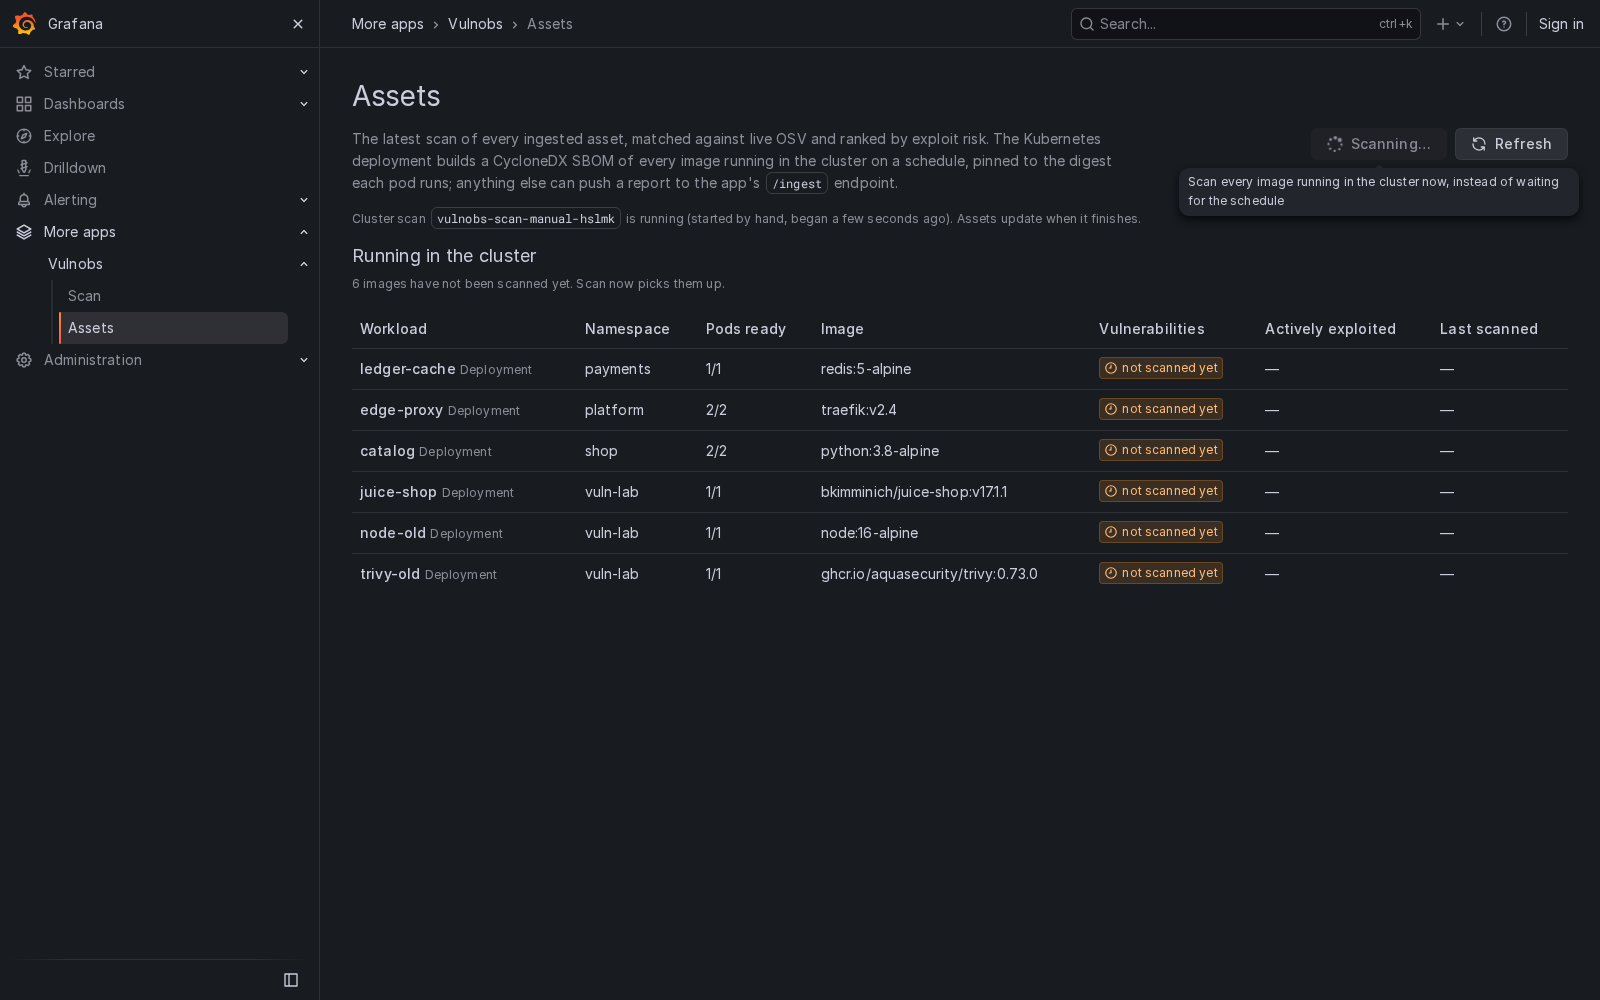
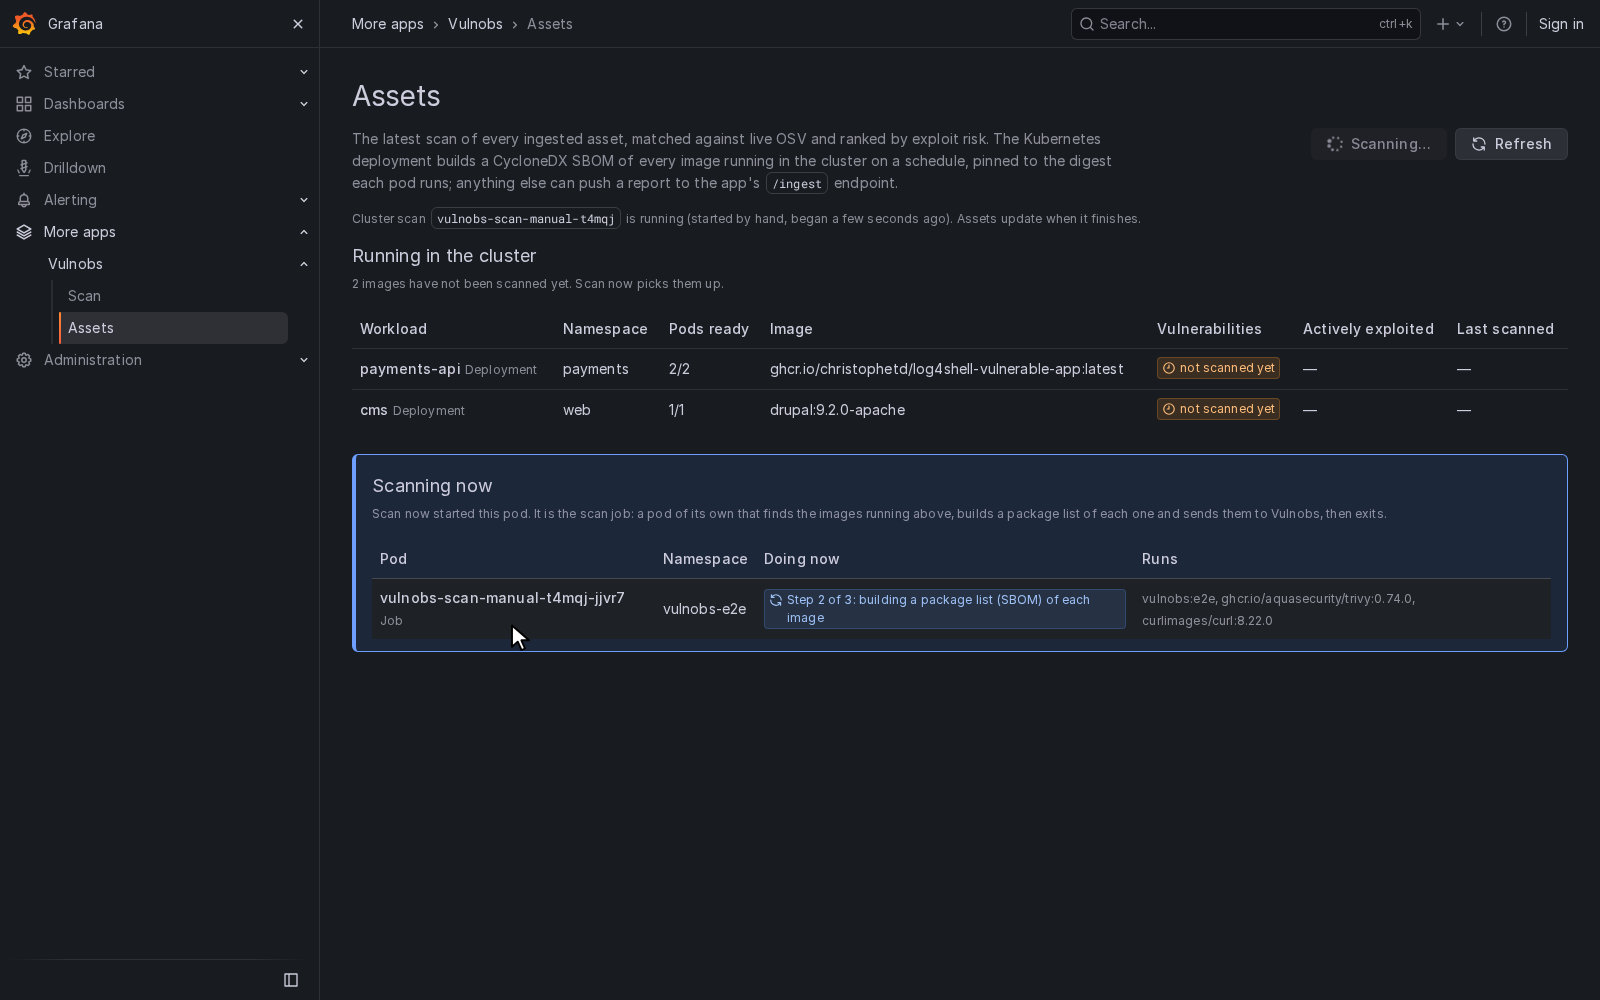
feat: show the scan job's pod on the Assets page while it runs (#62)
* feat: show the scan job's pod on the Assets page while it runs

While a cluster scan runs, the workloads view lists the scan job's own
pod in a "Scanning now" box: its name, namespace, the step it is on and
the images it runs. Clicking Scan now therefore visibly starts something
in the cluster instead of only changing the button.

The pod and its step come from the pod list the view already reads, so
no new permission is needed. Remote mode (Prometheus) has no step
information and does not show the box.

* docs: screenshot of a scan in progress with the scan job's pod

---------

Changed region(s): [[0.2188, 0.279, 1.0, 0.651], [0.75, 0.155, 0.9688, 0.217], [0.2188, 0.341, 0.2812, 0.372]]

diff --git a/rupesh-vulnobs-app/src/pages/Assets.tsx b/rupesh-vulnobs-app/src/pages/Assets.tsx
@@ -82,11 +82,35 @@ export interface Workload {
   images: WorkloadImage[];
 }
 
+// A pod of the scan job that is running now.
+export interface ScanPod {
+  namespace: string;
+  job: string;
+  pod: string;
+  // The container that is working: the job's steps run one after another.
+  step?: string;
+  images: string[];
+}
+
+// What the scan job's containers do, for the names the Tanka environment gives them.
+const SCAN_STEPS: Record<string, string> = {
+  discover: 'Step 1 of 3: finding the images that are running',
+  trivy: 'Step 2 of 3: building a package list (SBOM) of each image',
+  push: 'Step 3 of 3: sending the package lists to Vulnobs',
+  done: 'Finishing',
+};
+
+function scanStep(step?: string): string {
+  return !step ? 'Starting' : (SCAN_STEPS[step] ?? `Running ${step}`);
+}
+
 // Answer of GET /workloads: what runs in the cluster right now, scanned or not.
 interface WorkloadsResponse {
   available: boolean;
   reason?: string;
   workloads: Workload[];
+  // The scan job's own pods that are running now (Kubernetes API only).
+  scanPods?: ScanPod[];
   // 'prometheus': built from kube-state-metrics instead of the Kubernetes API.
   source?: string;
   // Set on a GET in that mode: the queries to run against the data source,
@@ -308,6 +332,9 @@ function AssetList({ onSelect }: { onSelect: (asset: string) => void }) {
     return () => clearInterval(timer);
   }, [pollWorkloads, fetchWorkloads]);
 
+  const followScanPods = showWorkloads && workloads?.source !== 'prometheus';
+  const scanPods = workloads?.scanPods ?? [];
+
   const { workloadRows, otherAssets } = useMemo(() => {
     const assets = data?.assets ?? [];
     const byName = new Map(assets.map((a) => [a.asset, a]));
@@ -361,9 +388,16 @@ function AssetList({ onSelect }: { onSelect: (asset: string) => void }) {
     if (!running) {
       return;
     }
-    const timer = setInterval(fetchScan, SCAN_POLL_MS);
+    // The scan job's pod and its current step come with the workloads, so
+    // follow those too while it runs (not in remote mode: Prometheus has no steps).
+    const timer = setInterval(() => {
+      fetchScan();
+      if (followScanPods) {
+        fetchWorkloads();
+      }
+    }, SCAN_POLL_MS);
     return () => clearInterval(timer);
-  }, [running, fetchScan, fetchAssets, fetchWorkloads]);
+  }, [running, followScanPods, fetchScan, fetchAssets, fetchWorkloads]);
 
   const startScan = () => {
     setStarting(true);
@@ -484,6 +518,29 @@ function AssetList({ onSelect }: { onSelect: (asset: string) => void }) {
     },
   ];
 
+  const scanPodColumns: Array<Column<ScanPod>> = [
+    {
+      id: 'pod',
+      header: 'Pod',
+      cell: ({ row: { original: p } }) => (
+        <span>
+          <span className={s.workloadName}>{p.pod}</span> <span className={s.muted}>Job</span>
+        </span>
+      ),
+    },
+    { id: 'namespace', header: 'Namespace', cell: ({ row: { original: p } }) => <span>{p.namespace}</span> },
+    {
+      id: 'step',
+      header: 'Doing now',
+      cell: ({ row: { original: p } }) => <Badge text={scanStep(p.step)} color="blue" icon="sync" />,
+    },
+    {
+      id: 'images',
+      header: 'Runs',
+      cell: ({ row: { original: p } }) => <span className={s.muted}>{p.images.join(', ')}</span>,
+    },
+  ];
+
   const unscanned = workloadRows.filter((r) => !r.asset).length;
 
   return (
@@ -580,6 +637,16 @@ function AssetList({ onSelect }: { onSelect: (asset: string) => void }) {
                 </>
               ) : (
                 <p className={s.scanLine}>Nothing is running outside the excluded namespaces.</p>
+              )}
+              {scanPods.length > 0 && (
+                <div className={s.scanPods} data-testid={testIds.assets.scanPods}>
+                  <h4 className={s.sectionTitle}>Scanning now</h4>
+                  <p className={s.scanLine}>
+                    Scan now started this pod. It is the scan job: a pod of its own that finds the images running
+                    above, builds a package list of each one and sends them to Vulnobs, then exits.
+                  </p>
+                  <InteractiveTable columns={scanPodColumns} data={scanPods} getRowId={(p) => p.pod} />
+                </div>
               )}
               {otherAssets.length > 0 && (
                 <>
@@ -713,6 +780,14 @@ const getStyles = (theme: GrafanaTheme2) => ({
     color: ${theme.colors.text.secondary};
     max-width: 780px;
     margin: 0;
+  `,
+  scanPods: css`
+    margin-top: ${theme.spacing(3)};
+    padding: ${theme.spacing(0.5, 2, 1.5)};
+    border: 1px solid ${theme.colors.info.border};
+    border-left-width: 4px;
+    border-radius: ${theme.shape.radius.default};
+    background: ${theme.colors.info.transparent};
   `,
   sectionTitle: css`
     margin: ${theme.spacing(2, 0, 1)};

diff --git a/rupesh-vulnobs-app/src/pages/Assets.test.tsx b/rupesh-vulnobs-app/src/pages/Assets.test.tsx
@@ -205,6 +205,26 @@ describe('Assets page', () => {
         </MemoryRouter>
       );
 
+    test('shows the scan job\'s pod while it runs', async () => {
+      mockBackend({
+        ...workloads,
+        scanPods: [
+          {
+            namespace: 'vulnobs',
+            job: 'vulnobs-scan-manual-abc12',
+            pod: 'vulnobs-scan-manual-abc12-xk2p9',
+            step: 'trivy',
+            images: ['vulnobs:1', 'trivy:0.74'],
+          },
+        ],
+      });
+      renderPage();
+
+      expect(await screen.findByText('Scanning now')).toBeInTheDocument();
+      expect(screen.getByText('vulnobs-scan-manual-abc12-xk2p9')).toBeInTheDocument();
+      expect(screen.getByText(/Step 2 of 3: building a package list/)).toBeInTheDocument();
+    });
+
     test('shows what runs in the cluster, scanned or not', async () => {
       mockBackend(workloads);
       renderPage();

diff --git a/rupesh-vulnobs-app/src/components/testIds.ts b/rupesh-vulnobs-app/src/components/testIds.ts
@@ -22,5 +22,6 @@ export const testIds = {
     scanStatus: 'data-testid assets-scan-status',
     workloads: 'data-testid assets-workloads',
     workloadsUnavailable: 'data-testid assets-workloads-unavailable',
+    scanPods: 'data-testid assets-scan-pods',
   },
 };

diff --git a/rupesh-vulnobs-app/pkg/plugin/workloads.go b/rupesh-vulnobs-app/pkg/plugin/workloads.go
@@ -42,11 +42,30 @@ type Workload struct {
 	Images    []WorkloadImage `json:"images"`
 }
 
+// ScanPod is a pod of the cluster scan job that is running now. The page shows
+// it apart from the workloads, so "Scan now" visibly starts something: the scan
+// is a pod of its own, not something Grafana does.
+type ScanPod struct {
+	Namespace string `json:"namespace"`
+	Job       string `json:"job"`
+	Pod       string `json:"pod"`
+	// Step is the container that is working now. The scan job's containers
+	// run one after another (find the images, build the SBOMs, push them).
+	// Empty while the pod is still starting; scanStepDone once every
+	// container has ended and the pod is about to go.
+	Step   string   `json:"step,omitempty"`
+	Images []string `json:"images"`
+}
+
 // WorkloadsResponse is the answer to GET /workloads.
 type WorkloadsResponse struct {
 	Available bool       `json:"available"`
 	Reason    string     `json:"reason,omitempty"` // why not, when unavailable
 	Workloads []Workload `json:"workloads"`
+	// ScanPods are the scan job's own pods that are running now. Only the
+	// Kubernetes API tells; in remote mode the page says the scan is running
+	// without them.
+	ScanPods []ScanPod `json:"scanPods,omitempty"`
 	// Source is "prometheus" when the list is built from kube-state-metrics
 	// instead of the Kubernetes API (clusterMode "remote").
 	Source string `json:"source,omitempty"`
@@ -87,6 +106,44 @@ type kubeContainer struct {
 type kubeContainerStatus struct {
 	Name    string `json:"name"`
 	ImageID string `json:"imageID"`
+	State   struct {
+		Terminated *struct{} `json:"terminated"`
+	} `json:"state"`
+}
+
+// scanStepDone is ScanPod.Step between the last container ending and the pod
+// being reported as finished.
+const scanStepDone = "done"
+
+// scanPod tells whether a pod belongs to a run of the scan CronJob (a Job
+// named "<cronjob>-..." in the CronJob's namespace) and, if so, which of its
+// steps is working.
+func (c *clusterScanner) scanPod(pod kubePod) (ScanPod, bool) {
+	if pod.Metadata.Namespace != c.namespace {
+		return ScanPod{}, false
+	}
+	kind, job := pod.owner()
+	if kind != "Job" || !strings.HasPrefix(job, c.cronJob+"-") {
+		return ScanPod{}, false
+	}
+	done, started := map[string]bool{}, false
+	for _, st := range append(pod.Status.InitContainerStatuses, pod.Status.ContainerStatuses...) {
+		started = true
+		done[st.Name] = st.State.Terminated != nil
+	}
+	sp := ScanPod{Namespace: pod.Metadata.Namespace, Job: job, Pod: pod.Metadata.Name, Images: []string{}}
+	for _, ct := range append(pod.Spec.InitContainers, pod.Spec.Containers...) {
+		if ct.Image != "" {
+			sp.Images = append(sp.Images, ct.Image)
+		}
+		if started && sp.Step == "" && !done[ct.Name] {
+			sp.Step = ct.Name
+		}
+	}
+	if started && sp.Step == "" {
+		sp.Step = scanStepDone
+	}
+	return sp, true
 }
 
 // owner names the workload a pod belongs to. A Deployment's pods are owned by
@@ -137,7 +194,9 @@ func imageDigest(imageID string) string {
 
 // workloads lists what runs in the cluster outside the excluded namespaces,
 // grouped by owner. Finished pods are left out, as the scan job leaves them.
-func (c *clusterScanner) workloads(ctx context.Context, excludeNamespaces []string) ([]Workload, error) {
+// The scan job's own running pods are returned separately, whatever namespace
+// they are in.
+func (c *clusterScanner) workloads(ctx context.Context, excludeNamespaces []string) ([]Workload, []ScanPod, error) {
 	excluded := map[string]bool{}
 	for _, ns := range excludeNamespaces {
 		if ns = strings.TrimSpace(ns); ns != "" {
@@ -146,6 +205,7 @@ func (c *clusterScanner) workloads(ctx context.Context, excludeNamespaces []stri
 	}
 
 	set := newWorkloadSet()
+	var scanPods []ScanPod
 	next := ""
 	for {
 		path := "/api/v1/pods?limit=500"
@@ -154,11 +214,18 @@ func (c *clusterScanner) workloads(ctx context.Context, excludeNamespaces []stri
 		}
 		var page kubePodList
 		if err := c.do(ctx, http.MethodGet, path, nil, &page); err != nil {
-			return nil, err
+			return nil, nil, err
 		}
 		for _, pod := range page.Items {
 			ns := pod.Metadata.Namespace
-			if excluded[ns] || pod.Status.Phase == "Succeeded" || pod.Status.Phase == "Failed" {
+			if pod.Status.Phase == "Succeeded" || pod.Status.Phase == "Failed" {
+				continue
+			}
+			if sp, ok := c.scanPod(pod); ok {
+				scanPods = append(scanPods, sp)
+				continue
+			}
+			if excluded[ns] {
 				continue
 			}
 			digests := map[string]string{}
@@ -179,7 +246,8 @@ func (c *clusterScanner) workloads(ctx context.Context, excludeNamespaces []stri
 			break
 		}
 	}
-	return set.list(), nil
+	sort.Slice(scanPods, func(i, j int) bool { return scanPods[i].Pod < scanPods[j].Pod })
+	return set.list(), scanPods, nil
 }
 
 // workloadSet groups pods by owner. Both sources of the workloads list (the
@@ -324,7 +392,7 @@ func (a *App) handleWorkloads(w http.ResponseWriter, req *http.Request) {
 			exclude = defaultExcludedNamespaces
 		}
 	}
-	workloads, err := a.cluster.workloads(req.Context(), exclude)
+	workloads, scanPods, err := a.cluster.workloads(req.Context(), exclude)
 	if err != nil {
 		// Not being allowed to list pods is the normal state when the
 		// deployment didn't opt in, so it is an answer, not a failure.
@@ -332,5 +400,5 @@ func (a *App) handleWorkloads(w http.ResponseWriter, req *http.Request) {
 		writeJSON(w, WorkloadsResponse{Available: false, Reason: reason, Workloads: []Workload{}})
 		return
 	}
-	writeJSON(w, WorkloadsResponse{Available: true, Workloads: workloads})
+	writeJSON(w, WorkloadsResponse{Available: true, Workloads: workloads, ScanPods: scanPods})
 }

diff --git a/rupesh-vulnobs-app/pkg/plugin/workloads_test.go b/rupesh-vulnobs-app/pkg/plugin/workloads_test.go
@@ -42,6 +42,13 @@ var podPages = map[string]string{
 	     "containerStatuses": [{"name": "db", "imageID": "sha256:` + digestB + `"}]}},
 	  {"metadata": {"name": "report-29-xyz", "namespace": "batch", ` + ownedBy("Job", "report-29") + `},
 	   "spec": {"containers": [{"name": "report", "image": "busybox:1.36"}]}, "status": {"phase": "Succeeded"}},
+	  {"metadata": {"name": "vulnobs-scan-manual-abc12-xk2p9", "namespace": "vulnobs", ` + ownedBy("Job", "vulnobs-scan-manual-abc12") + `},
+	   "spec": {"initContainers": [{"name": "discover", "image": "vulnobs:1"}, {"name": "trivy", "image": "trivy:0.74"}], "containers": [{"name": "push", "image": "curl:8"}]},
+	   "status": {"phase": "Pending",
+	     "initContainerStatuses": [{"name": "discover", "state": {"terminated": {"exitCode": 0}}}, {"name": "trivy", "state": {"running": {}}}],
+	     "containerStatuses": [{"name": "push", "state": {"waiting": {}}}]}},
+	  {"metadata": {"name": "vulnobs-scan-29-done", "namespace": "vulnobs", ` + ownedBy("Job", "vulnobs-scan-29") + `},
+	   "spec": {"containers": [{"name": "push", "image": "curl:8"}]}, "status": {"phase": "Succeeded"}},
 	  {"metadata": {"name": "debug", "namespace": "batch"},
 	   "spec": {"containers": [{"name": "sh", "image": "busybox:1.36"}]},
 	   "status": {"phase": "Running", "conditions": [{"type": "Ready", "status": "True"}]}}
@@ -63,9 +70,17 @@ func servePods(w http.ResponseWriter, r *http.Request) bool {
 
 func TestWorkloads(t *testing.T) {
 	kube := &fakeKube{pods: servePods}
-	got, err := newTestScanner(t, kube).workloads(context.Background(), []string{"kube-system", " "})
+	got, scanPods, err := newTestScanner(t, kube).workloads(context.Background(), []string{"kube-system", " ", "vulnobs"})
 	if err != nil {
 		t.Fatal(err)
+	}
+	// The scan job's running pod is reported on its own, although its
+	// namespace is excluded, with the step that is working; its finished
+	// pod is not.
+	wantScan := []ScanPod{{Namespace: "vulnobs", Job: "vulnobs-scan-manual-abc12", Pod: "vulnobs-scan-manual-abc12-xk2p9",
+		Step: "trivy", Images: []string{"vulnobs:1", "trivy:0.74", "curl:8"}}}
+	if !reflect.DeepEqual(scanPods, wantScan) {
+		t.Errorf("scan pods:\n got %+v\nwant %+v", scanPods, wantScan)
 	}
 	want := []Workload{
 		// No owner: the pod is its own workload.
@@ -82,6 +97,39 @@ func TestWorkloads(t *testing.T) {
 	}
 	if !reflect.DeepEqual(got, want) {
 		t.Errorf("workloads:\n got %+v\nwant %+v", got, want)
+	}
+}
+
+func TestScanPodStep(t *testing.T) {
+	c := &clusterScanner{namespace: "vulnobs", cronJob: "vulnobs-scan"}
+	pod := func(status string) kubePod {
+		var p kubePod
+		raw := `{"metadata": {"name": "vulnobs-scan-1-x", "namespace": "vulnobs", ` + ownedBy("Job", "vulnobs-scan-1") + `},
+		  "spec": {"initContainers": [{"name": "discover", "image": "a"}], "containers": [{"name": "push", "image": "b"}]},
+		  "status": {"phase": "Running"` + status + `}}`
+		if err := json.Unmarshal([]byte(raw), &p); err != nil {
+			t.Fatal(err)
+		}
+		return p
+	}
+	for name, tc := range map[string]struct{ status, want string }{
+		"no container has started": {``, ""},
+		"first step":               {`, "initContainerStatuses": [{"name": "discover", "state": {"running": {}}}]`, "discover"},
+		"last step": {`, "initContainerStatuses": [{"name": "discover", "state": {"terminated": {}}}],
+			"containerStatuses": [{"name": "push", "state": {"running": {}}}]`, "push"},
+		"everything ended": {`, "initContainerStatuses": [{"name": "discover", "state": {"terminated": {}}}],
+			"containerStatuses": [{"name": "push", "state": {"terminated": {}}}]`, scanStepDone},
+	} {
+		got, ok := c.scanPod(pod(tc.status))
+		if !ok || got.Step != tc.want {
+			t.Errorf("%s: step %q (scan pod %v), want %q", name, got.Step, ok, tc.want)
+		}
+	}
+	// Another namespace's job of the same name is not the scan job.
+	other := pod(``)
+	other.Metadata.Namespace = "shop"
+	if _, ok := c.scanPod(other); ok {
+		t.Error("a pod in another namespace was taken for the scan job")
 	}
 }
 

diff --git a/rupesh-vulnobs-app/CHANGELOG.md b/rupesh-vulnobs-app/CHANGELOG.md
@@ -4,6 +4,11 @@
 
 ### Features
 
+- **The scan job's pod on the Assets page** — while a cluster scan runs, the workloads view
+  shows the scan job's own pod in a *Scanning now* box: its name, its namespace, the step
+  it is on (finding the images, building the SBOMs, sending them) and the images it runs.
+  It comes from the pod list the view already reads, so it needs no new permission; in
+  remote mode the box is not shown.
 - **Remote mode: Grafana outside the cluster** — with `clusterMode: remote` the app needs
   no access to the Kubernetes API. The workloads view is built from kube-state-metrics
   series, queried through a Prometheus data source chosen in the app's configuration, and

diff --git a/README.md b/README.md
@@ -117,7 +117,7 @@ workload has its findings, most urgent first:
 
 **A scan in progress**, started with Scan now:
 
-![Assets page showing the scan job running](docs/screenshots/scan-now-running.png)
+![Assets page during a scan: under the two workloads, a Scanning now box lists the scan job's pod, its namespace and the step it is on](docs/screenshots/scan-now-running.png)
 
 **A workload's image**, with the findings from its CycloneDX SBOM:
 
